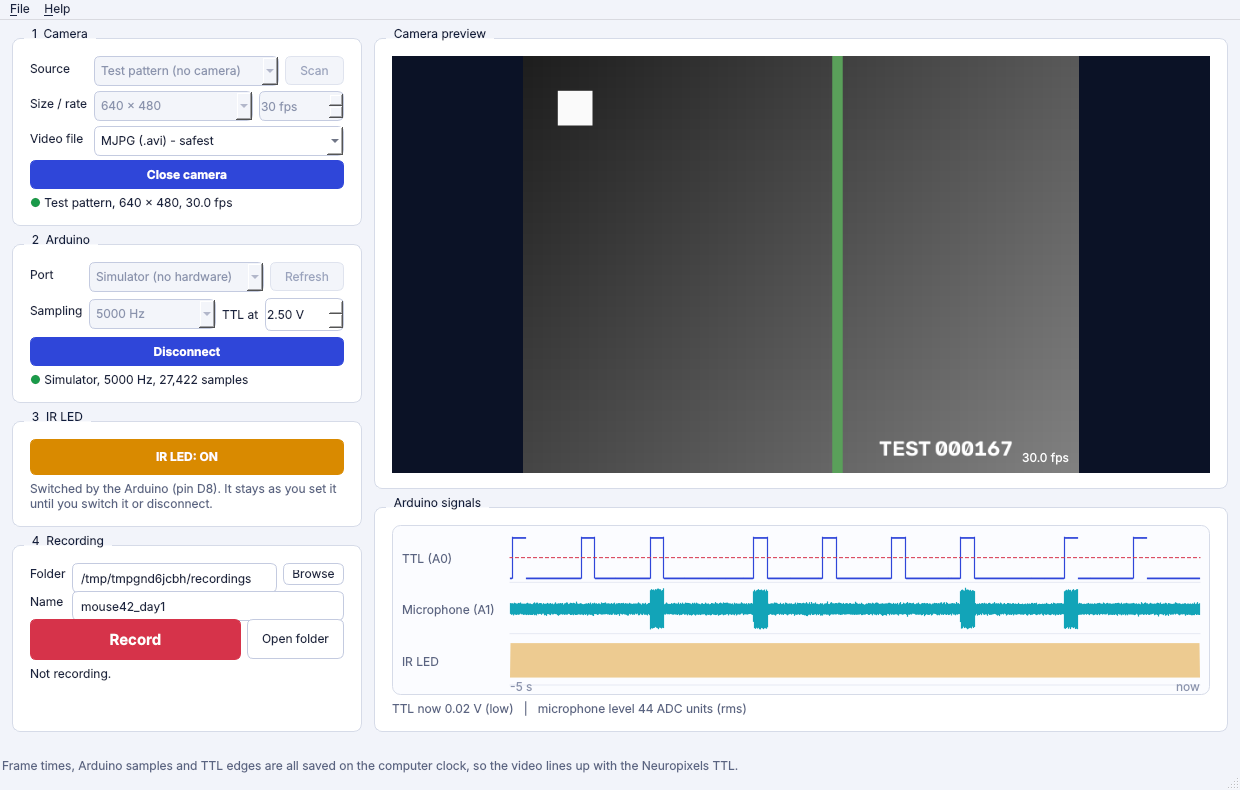
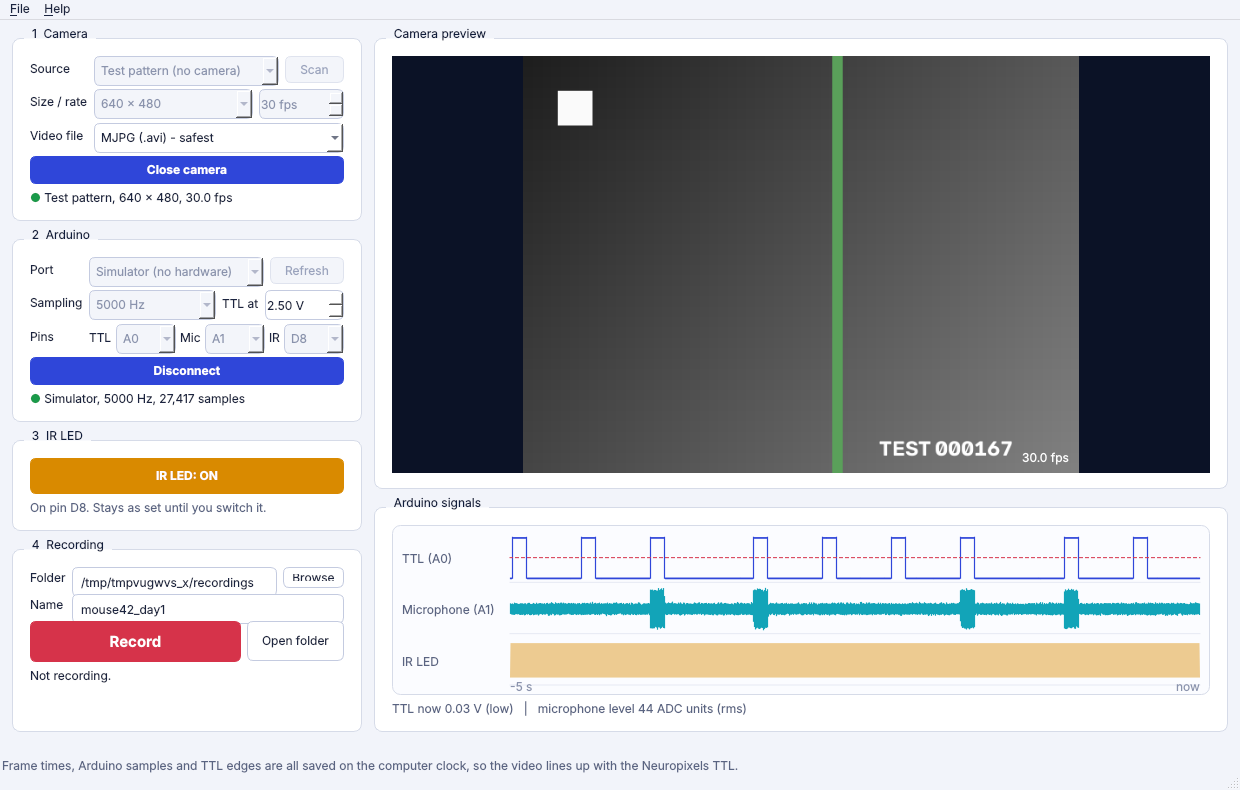
v2.1.0

diff --git a/synccam/gui.py b/synccam/gui.py
@@ -18,8 +18,8 @@ from PySide6.QtWidgets import (QApplication, QComboBox, QDoubleSpinBox, QFileDia
 
 from . import APP_AUTHOR, APP_NAME, APP_URL, __version__
 from .app import resource_path
-from .arduino import (IR_OFF, IR_ON, SAMPLE_RATES, SIM_PORT, ArduinoStream, SimulatedArduino,
-                      list_serial_ports, make_arduino)
+from .arduino import (ANALOG_PINS, DEFAULT_PINS, IR_OFF, IR_ON, IR_PINS, SAMPLE_RATES, SIM_PORT,
+                      ArduinoStream, SimulatedArduino, list_serial_ports, make_arduino)
 from .camera import CODECS, RESOLUTIONS, TEST_PATTERN, CameraThread, scan_cameras
 from .session import Recording
 
@@ -167,6 +167,12 @@ class ScopeWidget(QWidget):
         self.fs = 5000
         self.threshold = 512
         self.message = "Arduino not connected"
+        self.lanes = list(self.LANES)
+
+    def set_pins(self, ttl: int, mic: int) -> None:
+        self.lanes = [(f"TTL (A{ttl})", self.LANES[0][1]), (f"Microphone (A{mic})", self.LANES[1][1]),
+                      self.LANES[2]]
+        self.update()
 
     def set_data(self, data: np.ndarray, fs: int) -> None:
         self.data, self.fs = data, fs
@@ -183,7 +189,7 @@ class ScopeWidget(QWidget):
         width = max(10, right - left)
         n_win = int(SCOPE_S * self.fs)
         d = self.data[-n_win:]
-        for k, (name, colour) in enumerate(self.LANES):
+        for k, (name, colour) in enumerate(self.lanes):
             top = 8 + k * lane_h
             p.setPen(QColor("#5a6482"))
             p.drawText(QRectF(10, top, left - 16, lane_h), int(Qt.AlignmentFlag.AlignVCenter), name)
@@ -257,6 +263,7 @@ class MainWindow(QMainWindow):
         self._restore_settings()
         self.refresh_ports()
         self._ir_toggled()
+        self._pins_changed()
         self._update_enabled()
         self._timer = QTimer(self)
         self._timer.setInterval(33)
@@ -336,6 +343,26 @@ class MainWindow(QMainWindow):
         row.addWidget(QLabel("TTL at"))
         row.addWidget(self.thr_spin)
         form.addRow("Sampling", row)
+        self.ttl_pin = QComboBox()
+        self.mic_pin = QComboBox()
+        for combo in (self.ttl_pin, self.mic_pin):
+            for n in ANALOG_PINS:
+                combo.addItem(f"A{n}", n)
+        self.ir_pin = QComboBox()
+        for n in IR_PINS:
+            self.ir_pin.addItem(f"D{n}", n)
+        self.ttl_pin.setCurrentIndex(self.ttl_pin.findData(DEFAULT_PINS[0]))
+        self.mic_pin.setCurrentIndex(self.mic_pin.findData(DEFAULT_PINS[1]))
+        self.ir_pin.setCurrentIndex(self.ir_pin.findData(DEFAULT_PINS[2]))
+        self.ttl_pin.setToolTip("Analog input with the TTL sync signal")
+        self.mic_pin.setToolTip("Analog input with the microphone (A6/A7: Nano only)")
+        self.ir_pin.setToolTip("Digital pin that drives the IR LED")
+        row = QHBoxLayout()
+        row.setSpacing(4)
+        for lab, combo in (("TTL", self.ttl_pin), ("Mic", self.mic_pin), ("IR", self.ir_pin)):
+            row.addWidget(QLabel(lab))
+            row.addWidget(combo, 1)
+        form.addRow("Pins", row)
         self.ard_btn = QPushButton("Connect")
         self.ard_btn.setObjectName("primary")
         form.addRow(self.ard_btn)
@@ -352,8 +379,8 @@ class MainWindow(QMainWindow):
         self.ir_btn.setCheckable(True)
         self.ir_btn.setMinimumHeight(36)
         v.addWidget(self.ir_btn)
-        v.addWidget(hint("Switched by the Arduino (pin D8). It stays as you set it until you switch it "
-                         "or disconnect."))
+        self.ir_hint = hint("")
+        v.addWidget(self.ir_hint)
         left.addWidget(box)
 
         # 4 recording
@@ -384,7 +411,7 @@ class MainWindow(QMainWindow):
         self.rec_status = QLabel("Not recording.")
         self.rec_status.setWordWrap(True)
         self.rec_status.setAlignment(Qt.AlignmentFlag.AlignTop | Qt.AlignmentFlag.AlignLeft)
-        self.rec_status.setMinimumHeight(4 * self.rec_status.fontMetrics().lineSpacing() + 4)
+        self.rec_status.setMinimumHeight(3 * self.rec_status.fontMetrics().lineSpacing() + 4)
         v.addWidget(self.rec_status)
         left.addWidget(box)
         left.addStretch(1)
@@ -414,6 +441,8 @@ class MainWindow(QMainWindow):
         self.refresh_btn.clicked.connect(self.refresh_ports)
         self.ard_btn.clicked.connect(self._toggle_arduino)
         self.ir_btn.toggled.connect(self._ir_toggled)
+        for combo in (self.ttl_pin, self.mic_pin, self.ir_pin):
+            combo.currentIndexChanged.connect(self._pins_changed)
         self.thr_spin.valueChanged.connect(self._threshold_changed)
         self.dir_btn.clicked.connect(self._pick_dir)
         self.rec_btn.clicked.connect(self._toggle_record)
@@ -455,6 +484,9 @@ class MainWindow(QMainWindow):
         pick(self.res_combo, "resolution")
         pick(self.codec_combo, "codec")
         pick(self.rate_combo, "rate")
+        pick(self.ttl_pin, "ttl_pin")
+        pick(self.mic_pin, "mic_pin")
+        pick(self.ir_pin, "ir_pin")
         self.ir_btn.setChecked(str(s.value("ir_on", "false")).lower() == "true")
         for spin, key, cast in ((self.fps_spin, "fps", int), (self.thr_spin, "threshold", float)):
             val = s.value(key)
@@ -479,6 +511,9 @@ class MainWindow(QMainWindow):
         s.setValue("resolution", str(self.res_combo.currentData()))
         s.setValue("codec", self.codec_combo.currentData())
         s.setValue("rate", self.rate_combo.currentData())
+        s.setValue("ttl_pin", self.ttl_pin.currentData())
+        s.setValue("mic_pin", self.mic_pin.currentData())
+        s.setValue("ir_pin", self.ir_pin.currentData())
         s.setValue("ir_on", self.ir_btn.isChecked())
         s.setValue("fps", self.fps_spin.value())
         s.setValue("threshold", self.thr_spin.value())
@@ -578,12 +613,16 @@ class MainWindow(QMainWindow):
         port = self.port_combo.currentData()
         if not port:
             return False
+        pins = self._pins()
+        if pins[0] == pins[1]:
+            QMessageBox.warning(self, "Pins", "The TTL and the microphone need different analog inputs.")
+            return False
         st = ArduinoStream(make_arduino(port), int(self.rate_combo.currentData()))
         self.ard_status.setText("Connecting (the Arduino restarts, about 2 s)...")
         QApplication.setOverrideCursor(Qt.CursorShape.WaitCursor)
         QApplication.processEvents()
         try:
-            st.connect(self._ir_mode(), ttl_threshold=self._threshold_adc())
+            st.connect(self._ir_mode(), ttl_threshold=self._threshold_adc(), pins=pins)
         except Exception as exc:
             self.ard_status.setText("")
             QMessageBox.critical(self, "Cannot connect", f"{port}:\n\n{exc}\n\nIs another program "
@@ -601,6 +640,15 @@ class MainWindow(QMainWindow):
             st.close()
         self.scope.set_data(np.zeros((0, 3), dtype=np.int16), 5000)
         self._update_enabled()
+
+    def _pins(self):
+        return (int(self.ttl_pin.currentData()), int(self.mic_pin.currentData()),
+                int(self.ir_pin.currentData()))
+
+    def _pins_changed(self, *_a) -> None:
+        ttl, mic, ir = self._pins()
+        self.scope.set_pins(ttl, mic)
+        self.ir_hint.setText(f"On pin D{ir}. Stays as set until you switch it.")
 
     def _ir_mode(self) -> int:
         return IR_ON if self.ir_btn.isChecked() else IR_OFF
@@ -730,9 +778,14 @@ class MainWindow(QMainWindow):
             data = st.recent(SCOPE_S)
             self.scope.threshold = self._threshold_adc()
             self.scope.set_data(data, st.fs)
+            err = st.clock.rate_error()
+            slow = err is not None and abs(err) > 0.01
             self.ard_status.setText(f'<span style="color:#1a9a4a">&#9679;</span> {st.device.name}, '
                                     f"{st.fs} Hz, {st.total:,} samples"
-                                    + (f", {st.unwrap.dropped} lost" if st.unwrap.dropped else ""))
+                                    + (f", {st.unwrap.dropped} lost" if st.unwrap.dropped else "")
+                                    + (f'<br><span style="color:#a32035">Board only reaches '
+                                       f"{st.fs * (1 + err):.0f} Hz: choose a lower sample rate.</span>"
+                                       if slow else ""))
             if len(data):
                 ttl_v = data[-1, 0] / 1023 * 5
                 mic = data[-st.fs // 5:, 1].astype(float)
@@ -765,7 +818,7 @@ class MainWindow(QMainWindow):
         self.cam_btn.setEnabled(not rec)
         if not cam:
             self.cam_status.setText('<span style="color:#8a93ad">&#9679;</span> No camera open')
-        for w in (self.port_combo, self.refresh_btn, self.rate_combo):
+        for w in (self.port_combo, self.refresh_btn, self.rate_combo, self.ttl_pin, self.mic_pin, self.ir_pin):
             w.setEnabled(not ard)
         self.ard_btn.setText("Disconnect" if ard else "Connect")
         self.ard_btn.setEnabled(not rec)

diff --git a/synccam/arduino.py b/synccam/arduino.py
@@ -23,6 +23,25 @@ SAMPLE_RATES = [1000, 2000, 5000, 8000, 10000]
 IR_OFF, IR_ON, IR_FOLLOW, IR_PULSE = 0, 1, 2, 3
 IR_MODE_NAMES = {IR_OFF: "Off", IR_ON: "On", IR_FOLLOW: "Follow TTL", IR_PULSE: "Pulses"}
 
+ANALOG_PINS = list(range(8))           # A0..A7 (A6/A7: Nano and Pro Mini only)
+IR_PINS = list(range(2, 14))           # D2..D13
+DEFAULT_PINS = (0, 1, 8)               # TTL A0, microphone A1, IR LED D8
+
+
+def pin_label(kind: str, n: int) -> str:
+    return f"A{n}" if kind == "analog" else f"D{n}"
+
+
+def parse_identify(line: str) -> dict:
+    """'SYNCCAM 2 fs=5000 ttl=A5 mic=A1 ir=D8' -> {'version': 2, 'fs': '5000', 'ttl': 'A5', ...}"""
+    parts = line.split()
+    out = {"version": int(parts[1]) if len(parts) > 1 and parts[1].isdigit() else 0}
+    for p in parts[2:]:
+        if "=" in p:
+            k, v = p.split("=", 1)
+            out[k] = v
+    return out
+
 
 # --------------------------------------------------------------------------
 # Packets
@@ -180,6 +199,7 @@ class SimulatedArduino:
         self.pulse_width_s = 0.05
         self.ttl_threshold = 512
         self.led = False
+        self.ttl_ch, self.mic_ch, self.ir_pin = DEFAULT_PINS
         self._t0 = 0.0
         self._n = 0
         self._pulse_t0 = time.perf_counter()
@@ -212,7 +232,8 @@ class SimulatedArduino:
         c, rest = line[0], line[1:]
         with self._lock:
             if c == "?" and not self.streaming:
-                self._out += f"SYNCCAM 1 fs={self.fs}\n".encode()
+                self._out += (f"SYNCCAM 2 fs={self.fs} ttl=A{self.ttl_ch} mic=A{self.mic_ch} "
+                              f"ir=D{self.ir_pin}\n").encode()
             elif c == "S":
                 self._generate(time.perf_counter())
                 self.streaming = True
@@ -237,6 +258,15 @@ class SimulatedArduino:
                     self._pulse_t0 = time.perf_counter()
             elif c == "T" and rest.isdigit():
                 self.ttl_threshold = int(rest)
+            elif c == "A" and not self.streaming:
+                try:
+                    t, m = (int(x) for x in rest.split(","))
+                except ValueError:
+                    return
+                if 0 <= t <= 7 and 0 <= m <= 7:
+                    self.ttl_ch, self.mic_ch = t, m
+            elif c == "L" and not self.streaming and rest.isdigit() and 2 <= int(rest) <= 13:
+                self.ir_pin = int(rest)
 
     @staticmethod
     def ttl_at(t: np.ndarray) -> np.ndarray:
@@ -341,6 +371,13 @@ class ClockFit:
     def add(self, idx: int, t: float) -> None:
         self.pairs.append((idx, t))
 
+    def rate_error(self) -> Optional[float]:
+        """Measured / nominal sample rate - 1, once there is enough data (None before)."""
+        if len(self.pairs) < 2 or self.pairs[-1][0] - self.pairs[0][0] < self.fs * 3:
+            return None
+        _, period = self.solve()
+        return (1.0 / period) / self.fs - 1.0
+
     def solve(self) -> Tuple[float, float]:
         """(offset_s, period_s)."""
         if len(self.pairs) < 2:
@@ -355,7 +392,7 @@ class ClockFit:
             period = 1.0 / self.fs
         else:
             period = float(np.polyfit(x - x.mean(), y, 1)[0])
-            if not (0.98 / self.fs < period < 1.02 / self.fs):
+            if not (0.5 / self.fs < period < 2.0 / self.fs):
                 period = 1.0 / self.fs
         resid = y - x * period
         offset = float(np.percentile(resid, 2))
@@ -405,6 +442,7 @@ class ArduinoStream:
         self.device = device
         self.fs = int(fs)
         self.info: Optional[ArduinoInfo] = None
+        self.pins: Tuple[int, int, int] = DEFAULT_PINS
         self.parser = PacketParser()
         self.unwrap = SeqUnwrapper()
         self.clock = ClockFit(self.fs)
@@ -424,7 +462,7 @@ class ArduinoStream:
 
     # ---- setup -----------------------------------------------------------
     def connect(self, ir_mode: int = IR_OFF, pulse_ms: Tuple[int, int] = (1000, 50),
-                ttl_threshold: int = 512) -> ArduinoInfo:
+                ttl_threshold: int = 512, pins: Tuple[int, int, int] = DEFAULT_PINS) -> ArduinoInfo:
         dev = self.device
         dev.open()
         if dev.needs_reset_wait:
@@ -442,6 +480,25 @@ class ArduinoStream:
             dev.close()
             raise RuntimeError("No answer from the SyncCam sketch. Is firmware/SyncCam_Arduino uploaded, "
                                f"and is this the right port? (got {line!r})")
+        ttl, mic, ir = (int(x) for x in pins)
+        ident = parse_identify(line)
+        if ident["version"] >= 2:
+            dev.write(f"A{ttl},{mic}\nL{ir}\n".encode())
+            time.sleep(0.02)
+            dev.reset_input()
+            dev.write(b"?\n")
+            line = dev.readline(1.0) or line
+            ident = parse_identify(line)
+            want = {"ttl": f"A{ttl}", "mic": f"A{mic}", "ir": f"D{ir}"}
+            if any(ident.get(k) != v for k, v in want.items()):
+                dev.close()
+                raise RuntimeError(f"The Arduino did not accept these pins (it reports {line!r}). "
+                                   "This board may not have A6/A7, or the IR pin is not between D2 and D13.")
+        elif tuple(pins) != DEFAULT_PINS:
+            dev.close()
+            raise RuntimeError("This Arduino has the old SyncCam sketch, which only uses A0 (TTL), A1 "
+                               "(microphone) and D8 (IR LED). Upload the new sketch to choose other pins.")
+        self.pins = (ttl, mic, ir)
         self.set_ir(ir_mode, pulse_ms)
         self.set_threshold(ttl_threshold)
         dev.write(f"F{self.fs}\n".encode())

diff --git a/synccam/selftest.py b/synccam/selftest.py
@@ -118,9 +118,12 @@ def t_edges_and_clock(ctx):
 
 def t_simulated_stream(ctx):
     from .arduino import IR_OFF, IR_ON, ArduinoStream, SimulatedArduino
+    from .arduino import parse_identify
     st = ArduinoStream(SimulatedArduino(), 5000)
-    info = st.connect(IR_OFF)
-    assert info.firmware.startswith("SYNCCAM"), info.firmware
+    info = st.connect(IR_OFF, pins=(5, 2, 9))
+    ident = parse_identify(info.firmware)
+    assert ident["version"] == 2 and ident["ttl"] == "A5" and ident["mic"] == "A2" and ident["ir"] == "D9", \
+        info.firmware
     time.sleep(1.1)
     d = st.recent(1.0)
     assert st.error is None, st.error
@@ -142,10 +145,10 @@ def t_serial_commands(ctx):
     from .arduino import SerialArduino
     dev = SerialArduino("loop://")
     dev.open()
-    dev.write(b"P1000,50\nI3\n")
+    dev.write(b"A5,1\nL9\nI1\n")
     time.sleep(0.05)
     got = dev.read() + dev.read()
-    assert b"P1000,50\nI3\n" in got, got
+    assert b"A5,1\nL9\nI1\n" in got, got
     dev.close()
 
 
@@ -245,6 +248,7 @@ def t_gui(ctx):
     win.cam_btn.click()
     assert win.camera is not None, "test-pattern camera did not open"
     win.port_combo.setCurrentIndex(win.port_combo.findData(SIM_PORT))
+    win.ttl_pin.setCurrentIndex(win.ttl_pin.findData(5))
     win.ard_btn.click()
     win.ir_btn.click()
     assert win.stream is not None, "simulated Arduino did not connect"
@@ -267,6 +271,7 @@ def t_gui(ctx):
     js = json.loads((win.last_folder / "session.json").read_text(encoding="utf-8"))
     assert js["video"]["frames"] > 40 and js["arduino"]["samples"] > 10000, js
     assert js["ir_led_at_start"] == "on"
+    assert js["arduino"]["pins"] == {"ttl": "A5", "microphone": "A1", "ir_led": "D8"}, js["arduino"]["pins"]
     win.close()
     app.processEvents()
 

diff --git a/synccam/session.py b/synccam/session.py
@@ -205,9 +205,14 @@ class Recording:
                 "samples": self.n_samples,
                 "samples_lost_and_filled": self.filled,
                 "measured_rate_hz": round(1.0 / per, 4),
+                "rate_warning": ("The Arduino did not keep up with the chosen sample rate. Use "
+                                 "measured_rate_hz (not the WAV header rate) for timing, or pick a "
+                                 "lower rate." if abs(per * self.stream.fs - 1) > 0.01 else None),
                 "first_sample_time_s": round(off + self.idx0 * per - self.t0, 6),
                 "clock_fit": "time_s = first_sample_time_s + sample / measured_rate_hz",
                 "ttl_threshold_adc": self.ttl_threshold,
+                "pins": {"ttl": f"A{self.stream.pins[0]}", "microphone": f"A{self.stream.pins[1]}",
+                         "ir_led": f"D{self.stream.pins[2]}"},
                 "analog_wav_channels": ["TTL (A0, raw 0-1023)", "microphone (A1, raw 0-1023)",
                                         "IR LED (0/1)"],
             }

diff --git a/README.md b/README.md
@@ -37,7 +37,11 @@ The installers are not code-signed:
 
 Upload `firmware/SyncCam_Arduino/SyncCam_Arduino.ino` once with the Arduino IDE (Arduino Uno or Nano).
 
-| Arduino pin | Connect to |
+These are the default pins. You can pick other pins in the app (**Arduino → Pins**:
+TTL and microphone on any of A0–A7, IR LED on D2–D13). The choice is sent to the board each
+time you connect, so you never need to re-upload the sketch. A6 and A7 exist only on the Nano.
+
+| Arduino pin (default) | Connect to |
 |---|---|
 | A0 | TTL sync signal (the same TTL that goes to the Neuropixels), 0–5 V |
 | A1 | Microphone module output (MAX4466, MAX9814 or similar, biased at about 2.5 V) |
@@ -51,7 +55,7 @@ reported. Commands are documented at the top of the sketch.
 ## Using it
 
 1. **Camera:** pick the camera (**Scan** finds connected ones), size and frame rate, then **Open camera**.
-2. **Arduino:** pick the port and **Connect**. The board restarts when the port opens, which takes about 2 s.
+2. **Arduino:** pick the port, check the pins match your wiring, and **Connect**. The board restarts when the port opens, which takes about 2 s.
    Set the TTL threshold (default 2.5 V). The red dashed line in the TTL plot shows it.
 3. **IR LED:** click the button to switch it on or off. It stays as you set it, and SyncCam remembers
    the setting next time you connect.
@@ -98,7 +102,7 @@ TTL switches.
 
 ## Limits
 
-- Arduino Uno/Nano ADC: 10-bit. The microphone channel works for detecting sounds and cues,
+- Arduino ADC: 10-bit (Uno, Nano, Nano Every, Uno R4 all work; ESP32 boards are not supported). The microphone channel works for detecting sounds and cues,
   but it is not a measurement microphone. At 5 kHz it records up to 2.5 kHz.
 - Frame timing depends on the camera and its USB driver. Check `measured_fps` and the
   dropped-frame counts in `session.json`.
